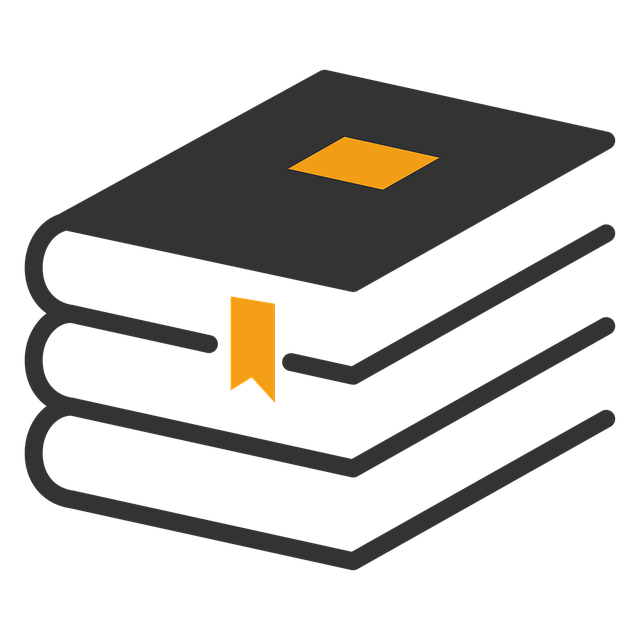
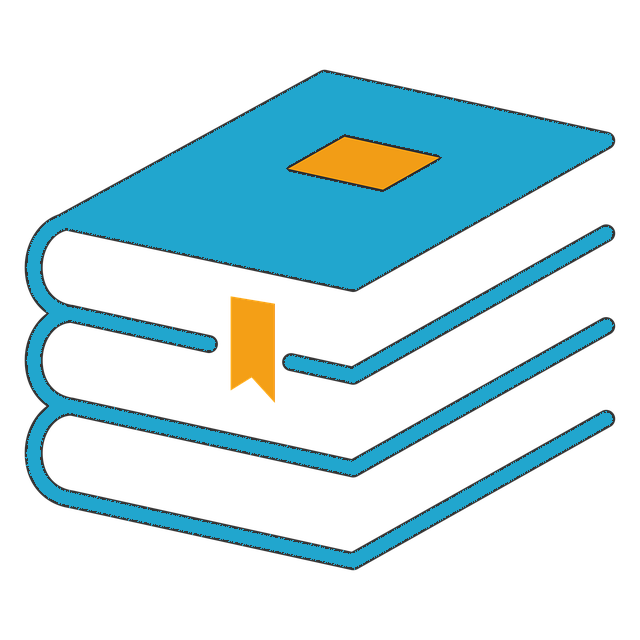
Hier hebde uwe commit

Changed region(s): [[0.0312, 0.0938, 0.9688, 0.9062], [0.4375, 0.3438, 0.9688, 0.5938]]

diff --git a/src/StudeerFX/model/Spel.java b/src/StudeerFX/model/Spel.java
@@ -1,6 +1,7 @@
 package StudeerFX.model;
 
 import javafx.animation.Timeline;
+import StudeerFX.view.TestInvullen.TestInvullenPresenter;
 import javafx.scene.media.Media;
 import javafx.scene.media.MediaPlayer;
 import javafx.scene.shape.Path;
@@ -82,21 +83,40 @@ public class Spel {
 
     }
 
+    public void tijdOp(){
+        poging = poging +1;
+        playFout();
+        if (poging == 4) {
+            maxpunten = maxpunten + 1;
+            aantalVragenGesteld++;
+            vragenTest.remove(random);
+            antwoordenTest.remove(random);
+            antwoordenTest2.remove(random);
+            poging = 1;
+        }
+        if(maxpunten == size){
+            testKlaar = true;
+        }
+
+    }
 
     public void kijkNa(String answer){
     poging = poging +1;
     boolean check = false;
-
+    reset();
         if(isInteger(answer)){
             System.out.println(answer);
             System.out.println(antwoordenTest.get(random));
-            if(answer.equals(antwoordenTest.get(random)) || answer.equals(antwoordenTest2.get(random))){
+            if(answer.equals(antwoordenTest.get(random)) || answer.equals(antwoordenTest2.get(random))) {
                 check = true;
             }
         }else{
             if(answer.toLowerCase().equals(antwoordenTest.get(random).toLowerCase()) || answer.toLowerCase().equals(antwoordenTest2.get(random).toLowerCase())){
                 check = true;
             }
+        }
+        if(this.seconds <= 0 ){
+            check = false;
         }
         if(check){
             punten = punten +1;
@@ -140,6 +160,7 @@ public class Spel {
         if (this.seconds == 0) {
             //Wat er moet gebeuren
             //gaat naar volgende vraag
+//            kijkNa("");
             reset();
         }
     }
@@ -149,6 +170,7 @@ public class Spel {
 
     public void reset() {
         this.seconds = 20;
+        tijdOp();
     }
 
     public int getTickDurationMillis() {

diff --git a/src/StudeerFX/view/TestVoorbereiden/TestVoorbereidenPresenter.java b/src/StudeerFX/view/TestVoorbereiden/TestVoorbereidenPresenter.java
@@ -7,6 +7,7 @@ import StudeerFX.view.Menu.MenuPresenter;
 import StudeerFX.view.Menu.MenuView;
 import StudeerFX.view.TestInvullen.TestInvullenPresenter;
 import StudeerFX.view.TestInvullen.TestInvullenView;
+import javafx.animation.Timeline;
 import javafx.event.ActionEvent;
 import javafx.event.EventHandler;
 import javafx.scene.control.Alert;
@@ -20,6 +21,7 @@ public class TestVoorbereidenPresenter {
     private Vragen vragen;
     private VraagSelector vraagSelector;
     private TestVoorbereidenView view;
+    private Timeline stopwatchTimeline;
 
     public TestVoorbereidenPresenter(Spel model, TestVoorbereidenView view) {
         this.model = model;
